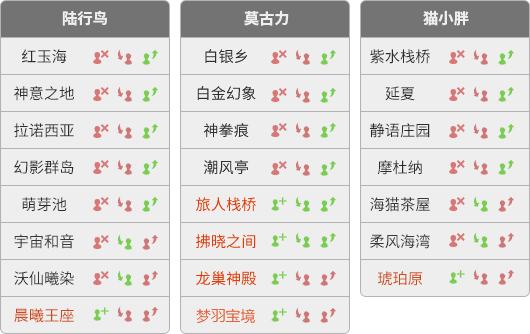
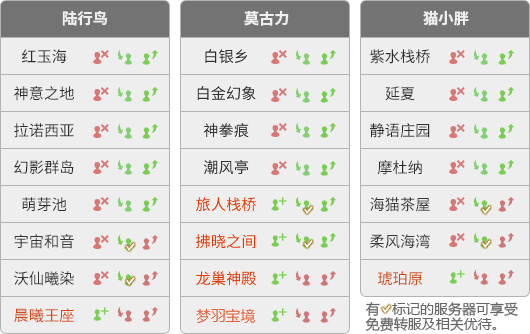
server info update

diff --git a/docs/before/char.md b/docs/before/char.md
@@ -15,7 +15,7 @@ FF14国服目前有三个大区，陆行鸟区下设8个服务器，莫古力区
 如果没有亲友的话请相信自己的直觉或随缘，如果已有亲友的话可洽询亲友。**橙色**的服务器有[新服奖励](/basic/levelup.md)：69级以下的职业经验获取+100%(含生产采集)。
 
 * 陆行鸟区：红玉海；神意之地；拉诺西亚；幻影群岛；萌芽池；宇宙和音；沃仙曦染；**晨曦王座**
-* 莫古力区：**潮风亭；白银乡；神拳痕；白金幻象；龙巢神殿；旅人栈桥；拂晓之间**
+* 莫古力区：潮风亭；白银乡；神拳痕；白金幻象；**龙巢神殿；旅人栈桥；拂晓之间；梦羽宝境**
 * 猫小胖区：紫水栈桥；延夏；静语庄园；摩杜纳；海猫茶屋；柔风海湾；**琥珀原**
 
 ;;;.guide .cols2
@@ -28,7 +28,7 @@ FF14国服目前有三个大区，陆行鸟区下设8个服务器，莫古力区
 服务器开放注册时均采用**动态绝育**机制，动态绝育是指当在线玩家达到某一数值时，该服务器临时自动关闭新角色创建以及角色转入功能。若有心仪的目标服务器但发现无法创建新角色，请注意目标服务器是否在关闭期，若不在关闭期，可以改在夜间、上午等人少时段尝试。
 
 ※ 宇宙和音、沃仙曦染、海猫茶屋以及柔风海湾只接受转入，不可以转出，暂不可以创建新角色。
-※ 晨曦王座和琥珀原仅开放新角色创建，不可以转入以及转出。
+※ 晨曦王座、梦羽宝境和琥珀原仅开放新角色创建，不可以转入以及转出。
 
 ;;;
 ;;;

diff --git a/docs/basic/international.md b/docs/basic/international.md
@@ -15,7 +15,7 @@
 | 节日活动 | 标准 | 除新年活动与国际服同步之外，其他节日活动晚国际服一年举办 |
 | 文本语言 | 日、英、德、法 | 中文 |
 | 配音语言 | 日、英、德、法 | 中、日 |
-| 区服信息 | 按北美、欧洲、日本分3个DC，共6个大区，72个服务器 | 分2个大区，共15个服务器 |
+| 区服信息 | 按北美、欧洲、日本分3个DC，共6个大区，72个服务器 | 分3个大区，共23个服务器 |
 | 玩家群体 | 各DC以地域各自分布地区，但实际各地人群都有，也有部分非运营地区玩家（中韩新马等）。 | 以国内玩家为主，有部分留学生，及其他华语地区玩家。 |
 | 购买方式 | CDKey+月卡，没有点卡 | 点卡/月卡，无需 CDKey |
 | 雇员 | 月租 | 买断 |

diff --git a/docs/topic/raid.md b/docs/topic/raid.md
@@ -221,7 +221,7 @@
 另外想要体验难度的玩家，推荐最低装等同步并且点掉超越之力的JTT、T9和零式巴哈系列。
 ::: collapse 2.0 极蛮神
 ### 蛮神真正的力量
-在沙之家于里昂热那里接到任务<quest name="蛮神真正的力量" type="plus" />”，可以打开蛮神讨伐的任务串。
+在沙之家于里昂热那里接到任务<quest name="蛮神的真正力量" type="plus" />，可以打开蛮神讨伐的任务串。
 
 首先接到的火风土神的讨伐战，这一系列被称为：真火、真风、真泰坦(ZTT)；以便以和之后的歼殛战区分。
 
